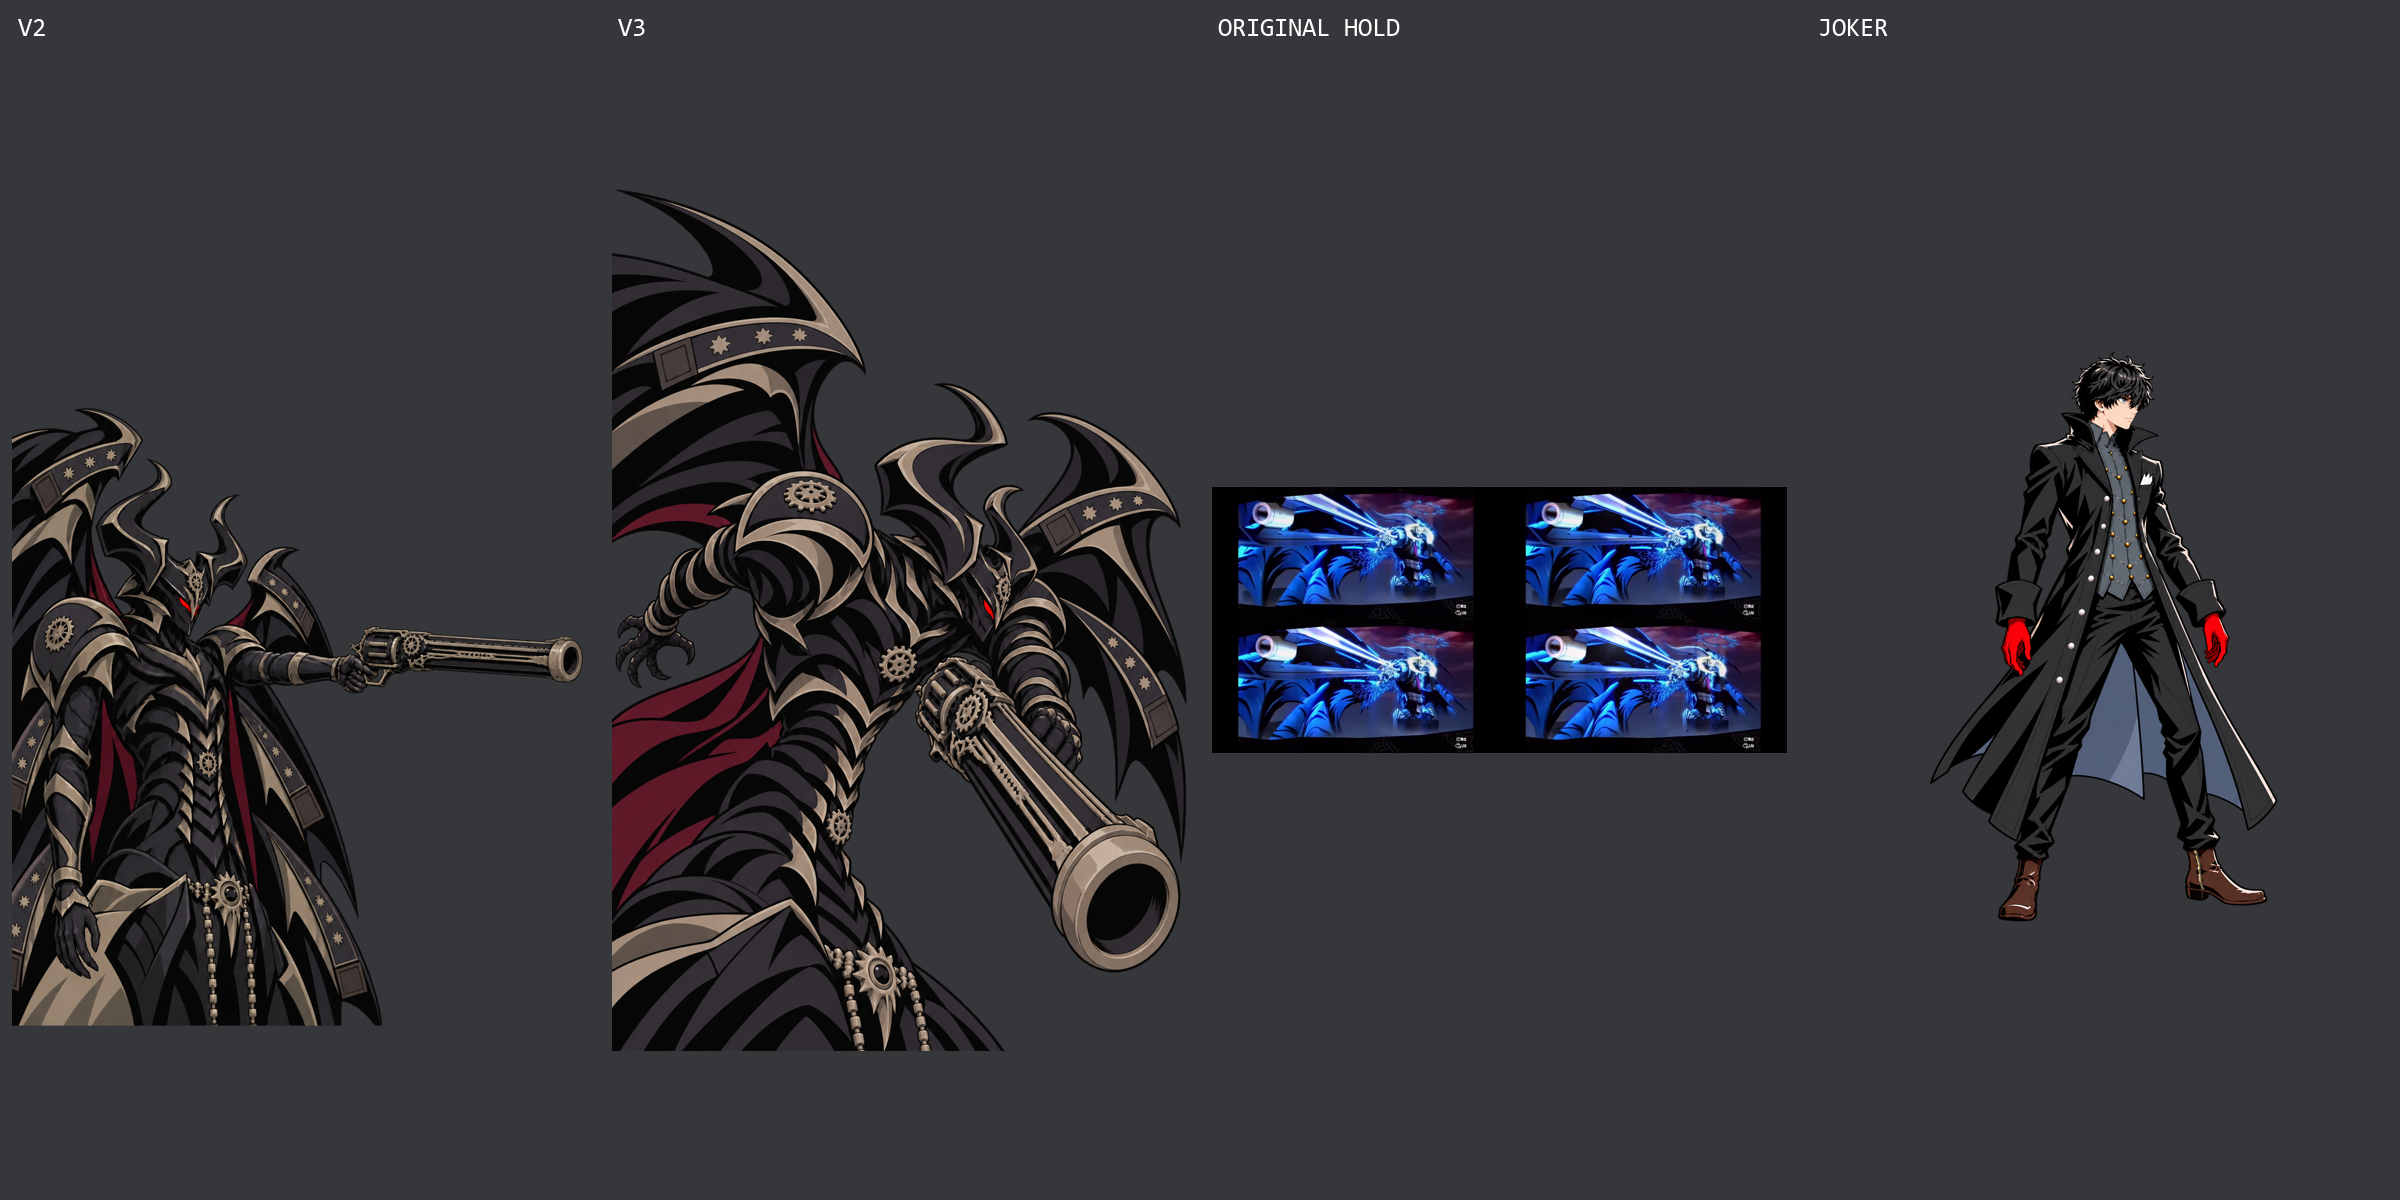
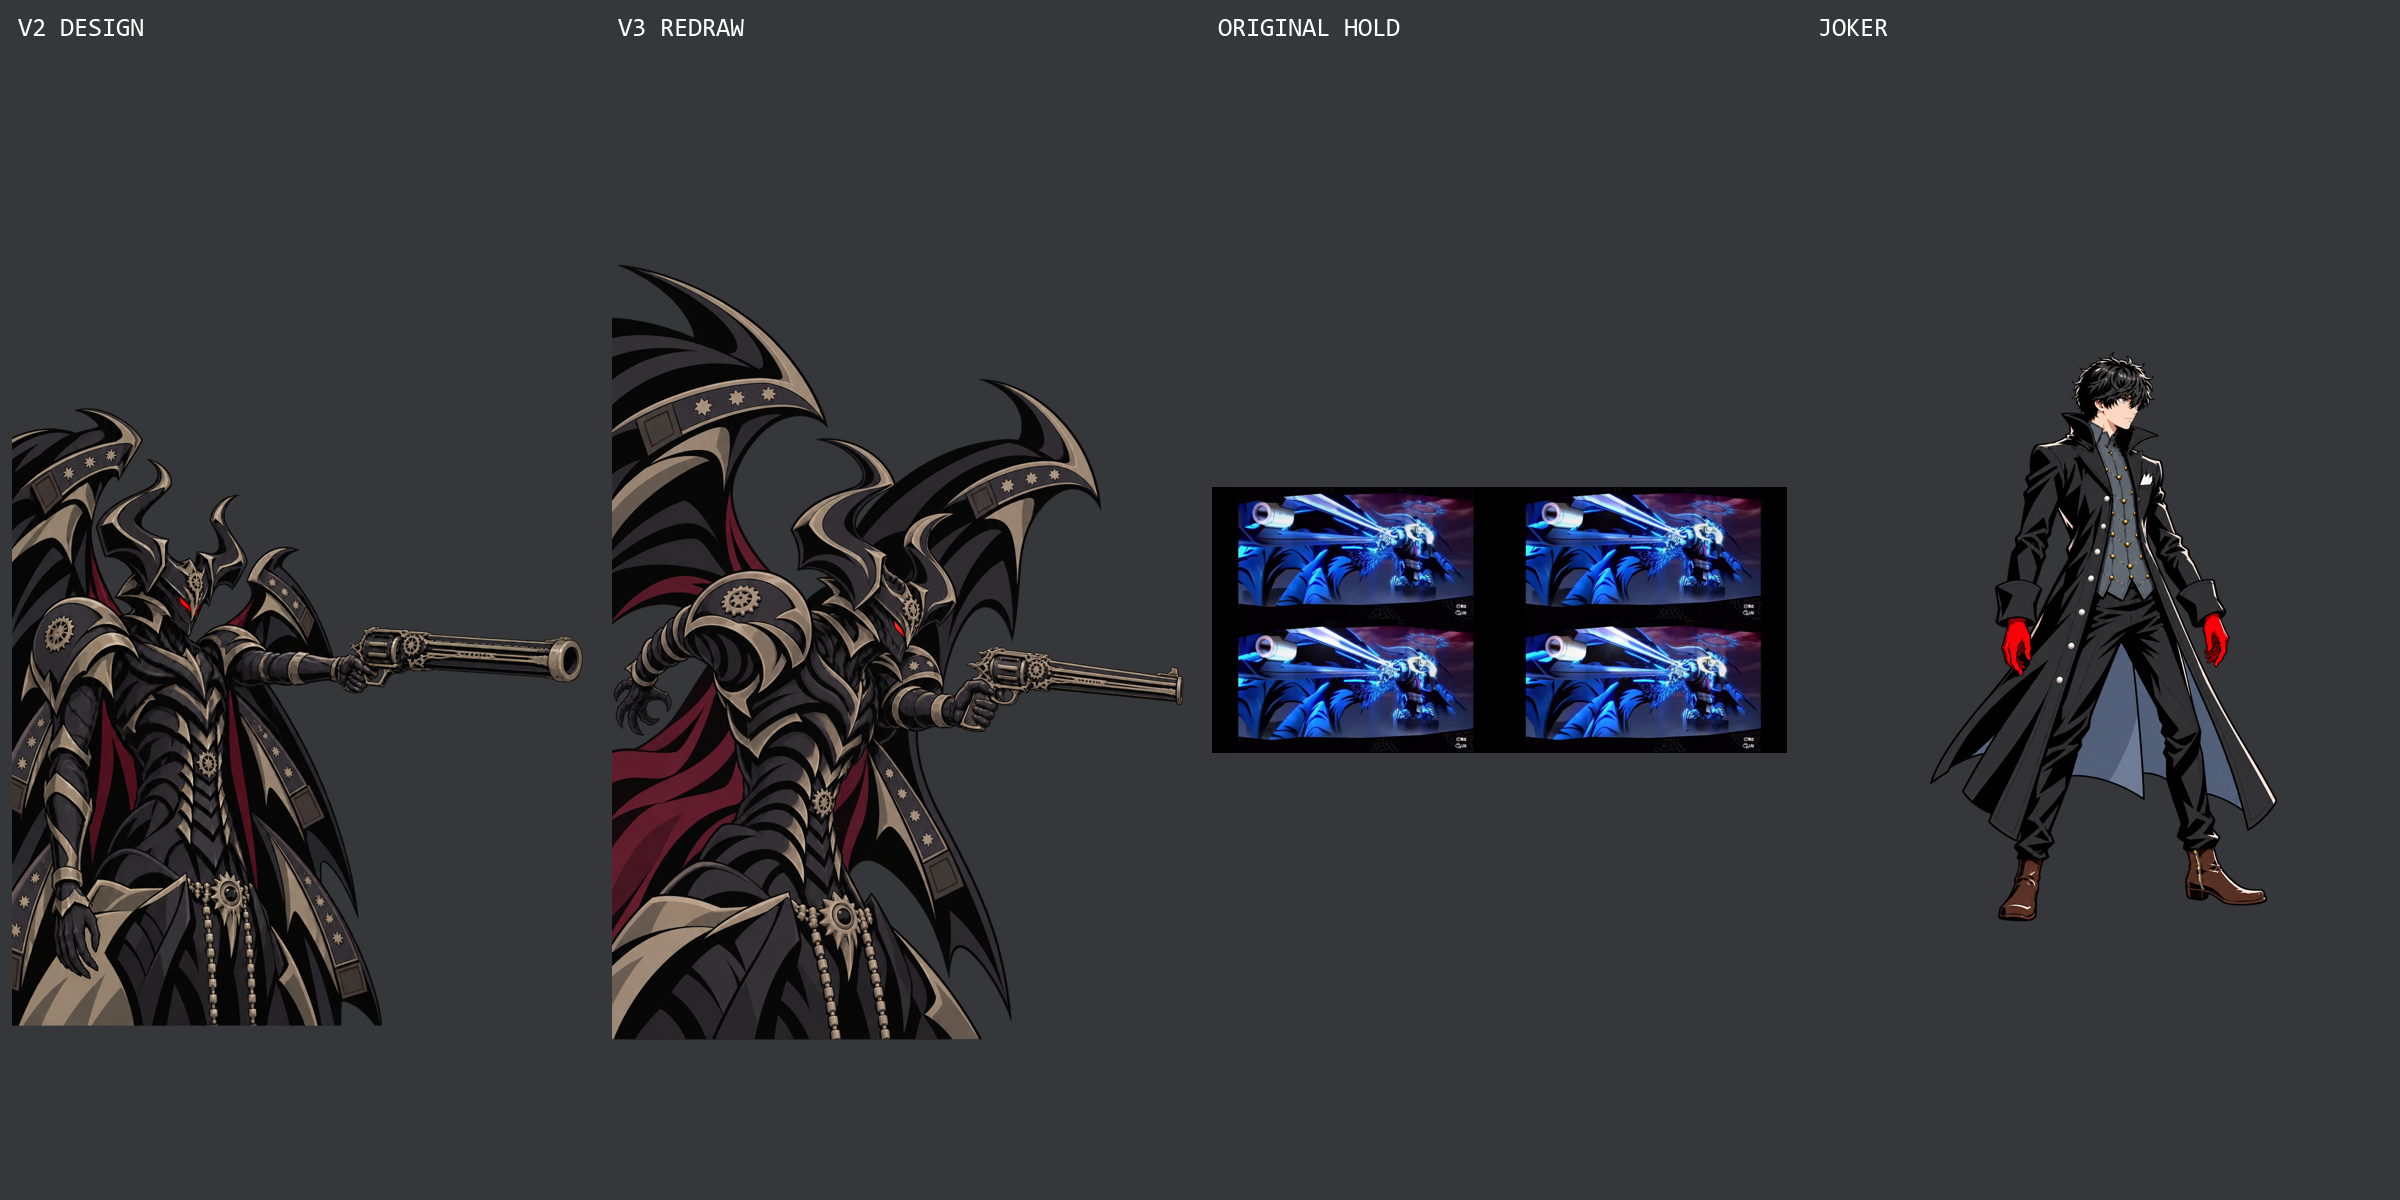
art: Satanael draft v3 (leaning into the aim, head down along the arm, wings flared)

Changed region(s): [[0.25, 0.1542, 0.5, 0.8942], [0.2812, 0.0, 0.3125, 0.0308], [0.0312, 0.0, 0.0625, 0.0308]]

diff --git a/art/p5/fx/v4/satanael/README_v3.md b/art/p5/fx/v4/satanael/README_v3.md
@@ -1,24 +1,27 @@
-# 撒旦耶尔第 3 版姿势草图
+# 撒旦耶尔第 3 版重画
 
-基于 27fa5046 最新任务文档，用第 2 版重画稿作为设计、配色、画风参考，ref_hold_gun/ref_fire 为动态参考。本次仅改草图姿势。
+已 fetch 并 merge --ff-only 到 18f4bfc7，重读新增的“第 3 版第一稿意见”。以 satanael_v2_draft 为枪、头盔比例、暗古铜金配色及画风参考，ref_v3_wrong 仅作为前倾、后拉爪子、张翼动作的参考。
 
-## 改动与输入
+## 本轮改动
 
-上身向右前压，肩膀前顶抬起，头低下探向持枪肩，红眼顺着枪管朝右下；双翼向后上方张开，暗红披风向后飘。人物自己的左手单手持枪，近侧右臂向后拉开、爪子张开。完整巨枪和枪口保留，以更靠近镜头的枪口强化近大远小。
+人物左手（画面远侧手）单手握枪，手腕在枪后下方，枪身采用第 2 版的长管左轮设计：明显转轮、细长有花纹的枪管、准星、枪口金属边。枪基本平行画面，向右略向下，枪口显示窄侧边，不显示正面的圆洞。保留前倾、后拉的右爪、张翼、暗红披风和压暗配色。
 
-没有重新提取原模型或修改模型动作，复用本机第 2 版参考和仓库已定稿资产。没有修改 mod 代码、编译、启动游戏、使用 Computer Use。
+头盔和双角重新分开显示，头部从肩膀上露出，降低上一稿的极端仰视与枪口透视。完整枪身和枪口留在画面内。没有精确标定前倾15°或枪口下俯10°～15°，这些角度按视觉绘制。
 
-## 生成与交付
+## 输出和生成记录
 
-- satanael_v3_draft.png，2400×3600 RGBA。
-- satanael_v3_draft_raw.png，内置 ImageGen 原始 1024×1536 图。
-- satanael_v3_draft_generation.json，两次完整提示词、输入与原始输出路径、透明清理参数。
-- check_satanael_v3.png，从左到右为 v2、v3、ref_hold_gun、Joker，深灰底。
-- 本次生成 2 次，重画 1 次。第一张把持枪臂接回了右肩，第二张只针对人物左右手关系修正。
-- 工具未提供可调用的原生分辨率参数，提示词请求最高细节后仍返回 1024×1536。交付图为等比 Lanczos 放大，不宣称原生 2400×3600。
-- 原始分辨率清除距 alpha>=200 轮廓超过 2 像素的半透明残点及 alpha<=2 像素，共清理10084个非零 alpha 像素。交付图透明像素3249150，透明 RGB 全部清零。
-- 原始高分辨率模型、GLB、中间脚本继续仅留在本机库。
+- satanael_v3_draft.png，2400×3600 RGBA，覆盖被否的第 3 版第一稿。
+- satanael_v3_draft_raw.png，内置 ImageGen 原始输出1024×1536，原样保留。
+- satanael_v3_draft_generation.json，完整提示词、输入、原始输出路径、尺寸与透明清理参数。
+- check_satanael_v3.png，从左到右为第2版、本轮第3版、ref_hold_gun、Joker，深灰底。
+- 本轮生成1次，追加重画0次。被否的旧稿已在本机 fx_work/satanael/rejected_v3_first/ 留存。
 
-## 待验收
+工具没有可调用的原生尺寸参数。请求最高细节后仍返回1024×1536，交付图为等比Lanczos放大至2400×3600，不宣称原生高分辨率。
 
-本稿前压、低头、后拉的右爪和张翼相较 v2 已有明显改变；前倾角按视觉绘制，没有精确标定15°。枪口透视较强、位置更靠右下，是否适合最终局内构图仍需用户/Claude确认。持枪手与扳机的遮挡细节也需验收。只交草图，尚未拆层。
+原始分辨率清除距alpha>=200轮廓超过2像素的低透明度残点以及alpha<=2像素，共10379个非零alpha像素。交付图透明像素4502498，透明RGB全部为零。没有更换背景或用底色抠图。
+
+## 限制和待验收
+
+细长左轮和侧向枪口已经恢复，但持枪肘部仍有弯曲，枪的绝对尺寸和头相对肩膀的比例仍需验收。枪口下俯幅度较小，没有达到精确标定的10°～15°。头没有上一稿埋得深，但仰视、头部辨识度和前压气势仍交用户/Claude判断。本轮没有自动增加后续重画。
+
+只交草图，没有拆层。未修改mod代码、未编译、未启动游戏、未使用Computer Use。
